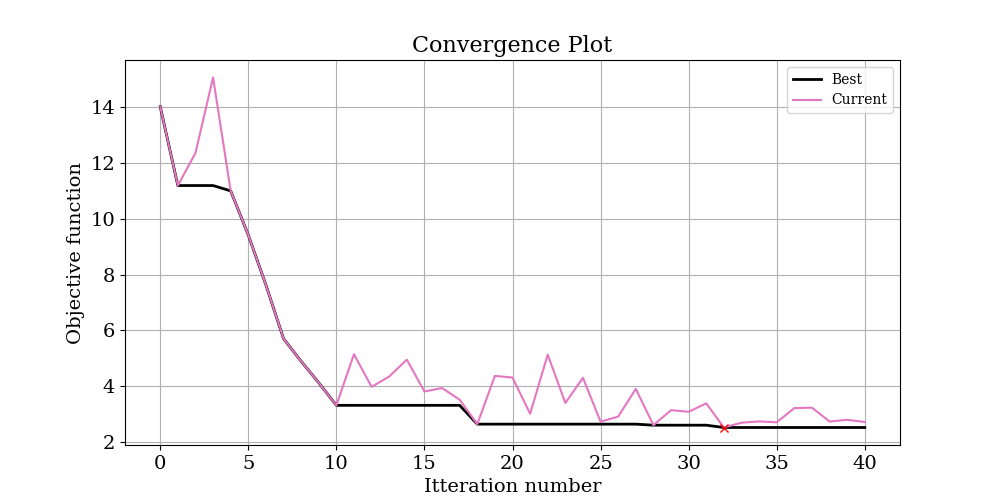
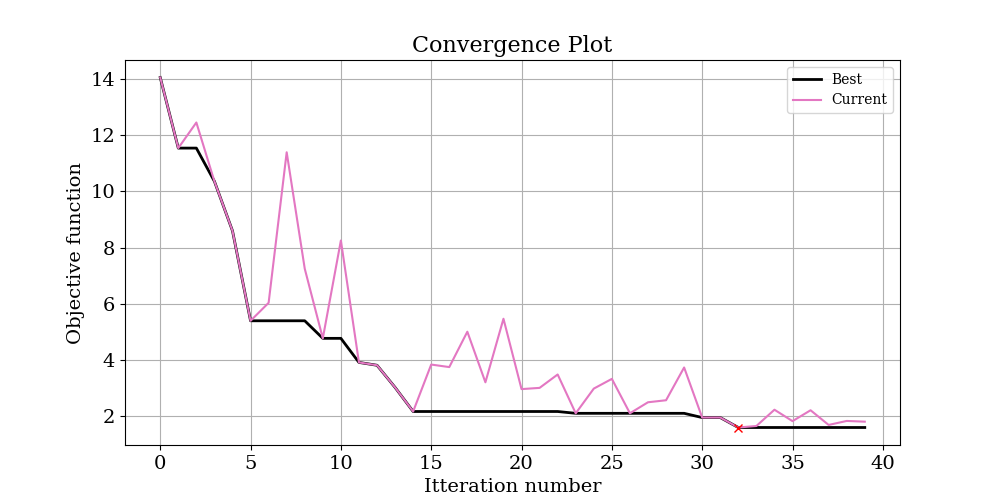
updating doc source

diff --git a/examples/ApertureOptimisation/README.md b/examples/ApertureOptimisation/README.md
@@ -335,18 +335,11 @@ and the results:
 
 | Parameter                | Original Value | Random Starting Value | Recovered Value |
 | ------------------------ | -------------- | --------------------- | --------------- |
-| CollimatorThickness      | 27 mm          | 39.9 mm               | 39.4 mm (48%)   |
-| UpStreamApertureRadius   | 1.82 mm        | 1.14 mm               | 2.6 mm (37%)    |
-| DownStreamApertureRadius | 2.5 mm         | 1.73 mm               | 3.0 mm (31%)    |
+| CollimatorThickness      | 27 mm          | 39.9 mm               | 27.9 (3.3 %)    |
+| UpStreamApertureRadius   | 1.82 mm        | 1.14 mm               | 2.26 (24.2 %)   |
+| DownStreamApertureRadius | 2.5 mm         | 1.73 mm               | 2.51 (0.4 %)    |
 
-OK - this optimiser did terribly!! What gives?
-
-This is actually a very instructive and interesting result. Looking at the convergence plot above, the NelderMead algorithm has actually done a reasonable job of minmising the objective function from it's starting value. What has actually happened here is the result of two effects:
-
-1. Our objective function is based on the water tank results. This is only a **surrogate** for what we really care about, which is the geometric parameters. As we see below, and in the convergence plot, the NM approach actually did what we we asked it to reasonably well - it's just that what we asked it to do wasn't as well defined as it could be! 
-2. The NelderMead algorithm got stuck in a local minimum, in which it used a much larger collimator thickness  in conjunction with larger aperture openings to produce dose profiles that actually match the original  case pretty well. Getting stuck in local minima is in fact the major weakness of this algorithm. 
-
-We could almost certainly improve this result (which is a bit unfair to the NM algorithm at the moment), but we will leave it like this because it is a rather instructive example of how things can go wrong!
+In this case, the NelderMead Optimiser has also done a great job, almost as good as the Bayesian optimiser. For complex objective functions, the NelderMead approach has a tendency to get stuck in local minima. However for simple situations, it will often converge mode quickly than the Bayesian approach, since it doesn't have to learn the underlying objective function to be effective.
 
 ## Comparison with ground truth data
 
@@ -355,20 +348,19 @@ To compare multiple results we have included a function in utilities.compare_mul
 ```python
 from TopasOpt.utilities import compare_multiple_results
 
-# update paths to point to wherever your results are.
-ResultsToCompare = ['SimpleCollimatorExample_TopasFiles/Results/WaterTank.bin',
-                    'C:/Users/bwhe3635/Dropbox (Sydney Uni)/Projects/PhaserSims/topas/BayesianApertureOpt/Results/WaterTank_itt_29.bin',
-                    'C:/Users/bwhe3635/Dropbox (Sydney Uni)/Projects/PhaserSims/topas/NM_OptimisationTest/Results/WaterTank_itt_17.bin']
+LogFileLoc = ['Z:/Documents/temp/NM_OptAperture/Results/WaterTank_itt_39.bin',
+              'Z:/Documents/temp/BayesOptAperture/Results/WaterTank_itt_31.bin',
+              'Z:/Documents/temp/BayesOptAperture/Results/WaterTank_itt_0.bin',
+              'C:/Users/bwhe3635/Documents/temp/TopasOpt/docsrc/_resources/WaterTank.bin']
 
-custom_legend = ['Original','Bayesian','NelderMead']
-compare_multiple_results(ResultsToCompare,custom_legend_names=custom_legend)
+custom_legend = ['NelderMead','Bayesian','Random Start','Ground Truth']
+
+compare_multiple_results(LogFileLoc, custom_legend_names=custom_legend)
 ```
 
 Using this code, we can generate the following figure:
 
 ![](../..//docsrc/_resources/ApertureOpt/compare.png)
-
-Again, it is very interseting to note that despite the fact that the NelderMead didn't do a great job of recovering our 'ground truth' parameters, it actually did a pretty good job of what we asked it to do: minimise the absolite difference betwee these plots.
 
 ## Improving these results
 

diff --git a/docsrc/next_steps.md b/docsrc/next_steps.md
@@ -87,6 +87,8 @@ You can look through the source code to see how the different optimisers are imp
 ## Assess noise in the objective function
 
 You can use your GenerateTopasScripts function to create 10 identical scripts, run them all, and then assess the reslts with TopasObjectiveFunction. If the noise in the objective function is higher than the precision you would ultimately like to converge to then you are unlikely to get a great result. E.g. if the noise in the objective function is 20% and you hope to be within 10% of the true optimum you are in trouble. For the Bayesian optimiser, you may be able to handle noise by increasing bayes_GP_alpha.
+```
 
+## NelderMeadOptimiser
 
-
+- Choice of starting simplex.
